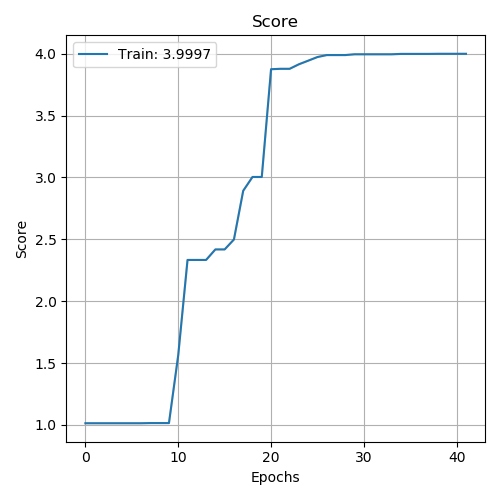
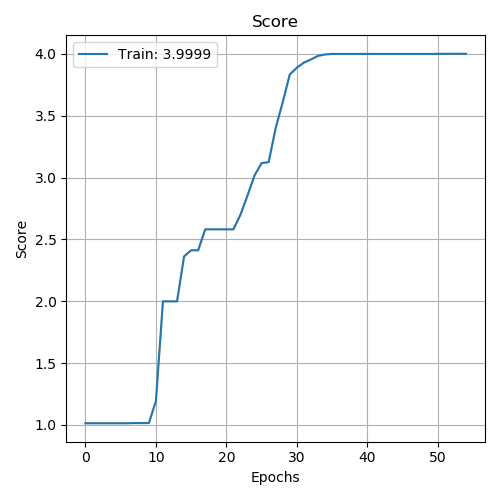
Continuing refactorinContinuing refactoringg

diff --git a/gaussian_process/gaussian_process.py b/gaussian_process/gaussian_process.py
@@ -48,6 +48,7 @@ class GaussianProcess:
         self,
         n_calls: int = 100,
         n_random_starts: int = 10,
+        n_restarts_optimizer: int = 50,
         random_state: int = 42,
         early_stopping_delta: float = 0.001,
         early_stopping_best_models: int = 5,
@@ -62,6 +63,7 @@ class GaussianProcess:
             n_calls=n_calls,
             n_random_starts=n_random_starts,
             n_jobs=n_jobs,
+            n_restarts_optimizer=n_restarts_optimizer,
             callback=[
                 TQDMGaussianProcess(n_calls),
                 history,
